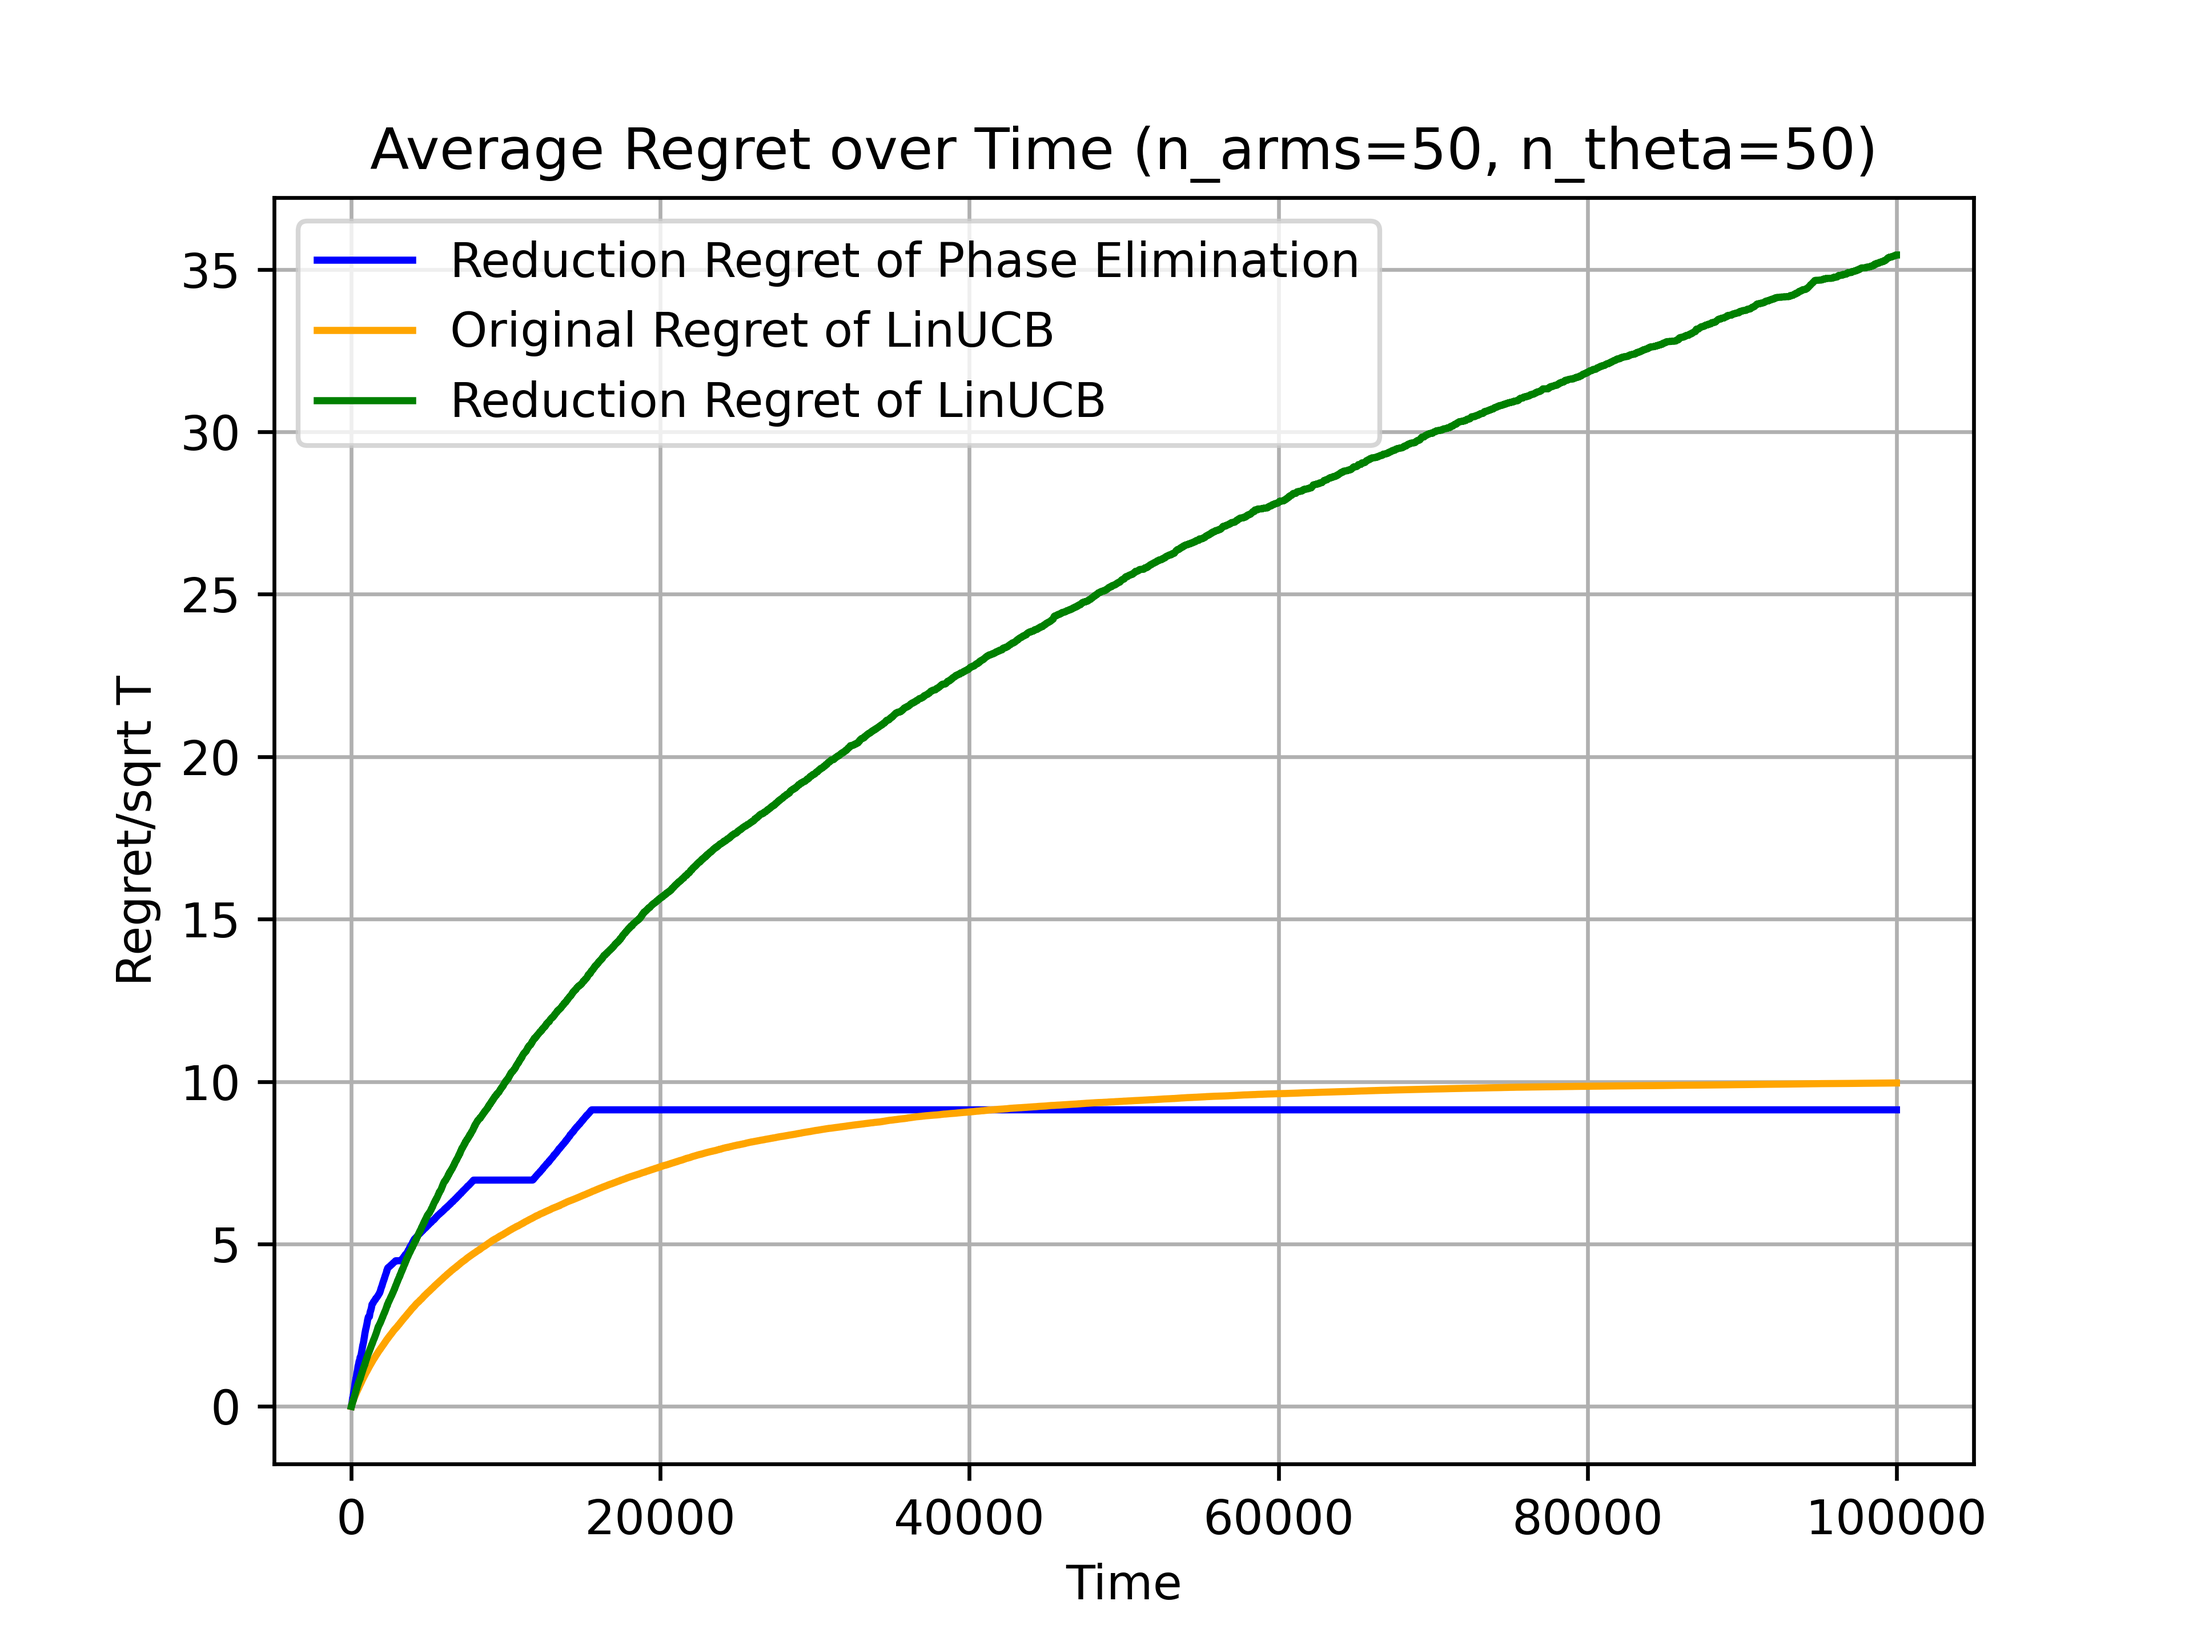
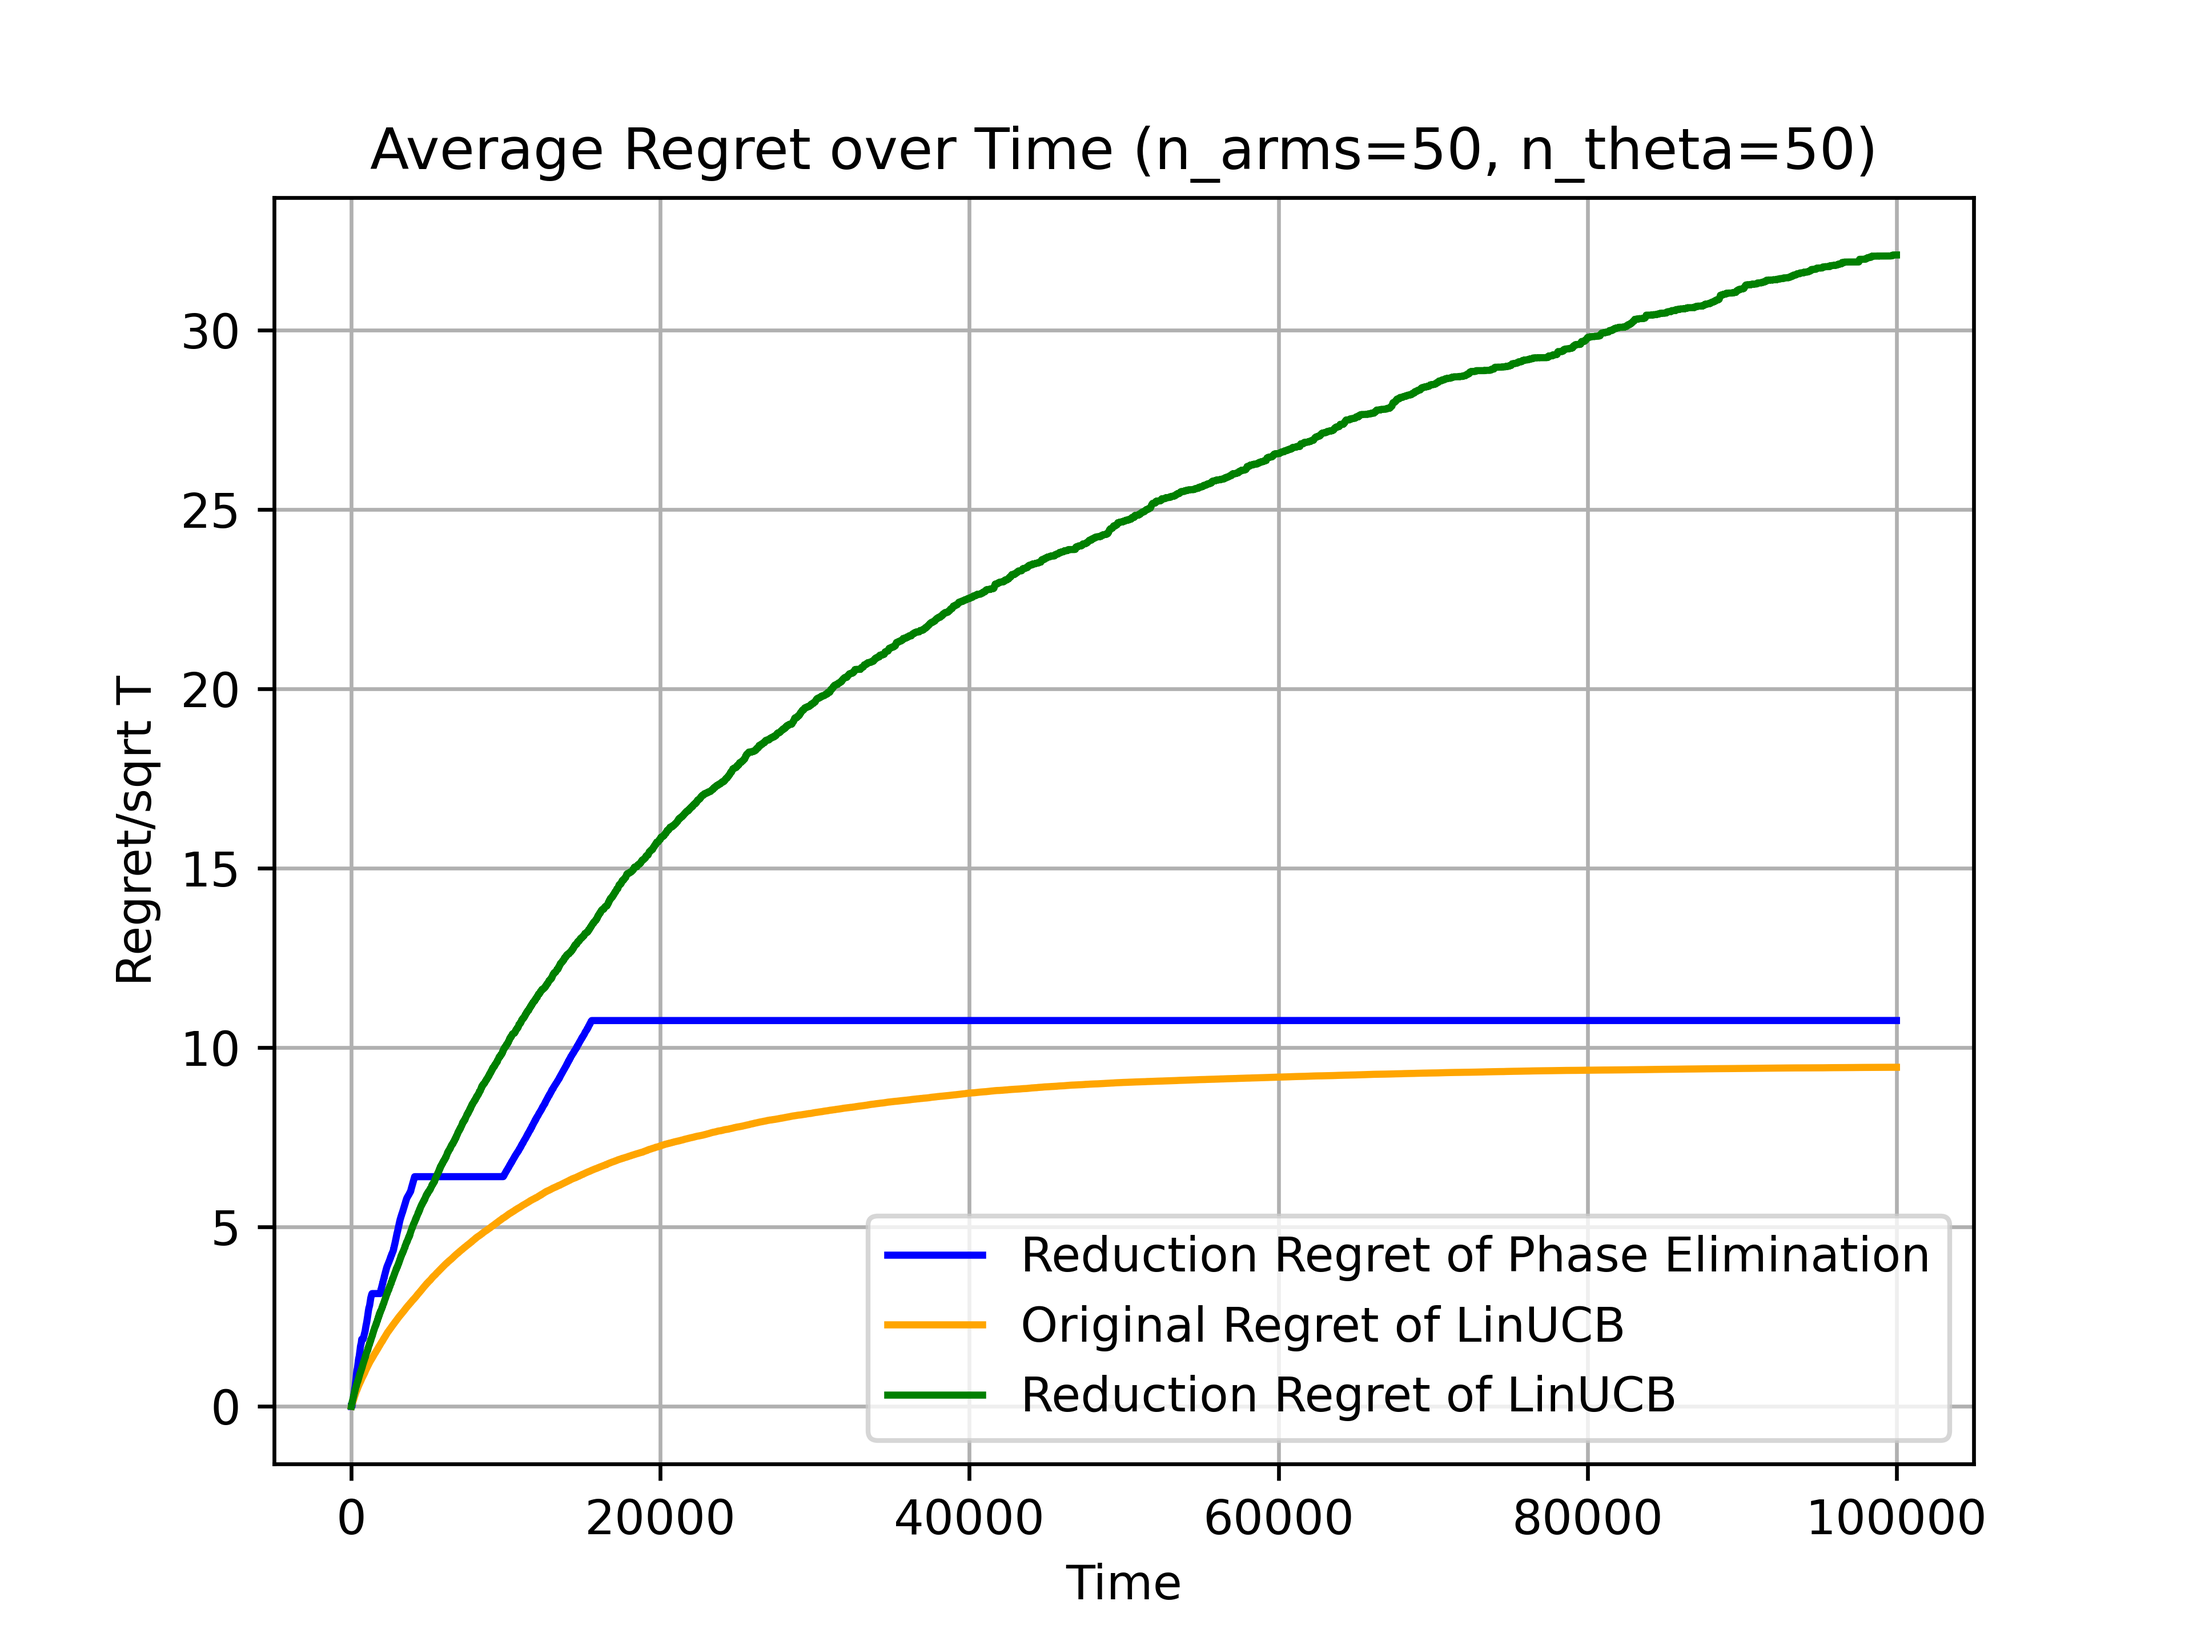
restructure repo

diff --git a/sector_comparsion.py b/sector_comparsion.py
@@ -1,12 +1,12 @@
 import numpy as np
 import math
 import matplotlib.pyplot as plt
-
+from equal_sphere import generate_action_sets, find_partition
 # initialization of settings:
-n_arms = 50
-n_theta = 50
-n_features = 5
-num_action_list = 200
+n_arms = 100
+n_theta = 100
+n_features = 4
+num_sector = 20
 
 
 class linBand():
@@ -61,11 +61,13 @@ class linBand():
         self.b += self.x_t * r_t
         self.theta_hat = np.linalg.lstsq(self.v, self.b, rcond=None)[0]
 
+
 def update_v_pi(pi, A):
     v_pi = 0.001*np.eye(n_features)
     for i in range(len(A)):
         v_pi += np.outer(A[i], A[i]) * pi[i] 
     return v_pi
+
 # input: A: action set
 # output: return Pi
 def g_optimal_design(A):
@@ -88,6 +90,7 @@ def g_optimal_design(A):
         #update v_pi:
         v_pi = update_v_pi(pi, A) 
     return pi
+
 
 class phase_elimination():
     def __init__(self, action_set, T, l= 1, epsilon_l=2**(-1)) -> None:
@@ -133,20 +136,16 @@ class phase_elimination():
     def feed_reward(self, r_t):
         if np.all(self.T_l == 0):
             # calculate theta_hat: 
-            # print(self.V_l)
-            # print(len(self.V_l))
             V_l_inverse = np.linalg.inv(self.V_l)
             self.theta_hat =  np.dot(V_l_inverse, self.product_At_r_t.reshape(-1, 1)).reshape(1, -1)
             # Eliminate arms: 
             res = []
-            # print(self.A)
             for a in self.A:
                 if any(np.array_equal(row, a) for row in res): continue 
 
                 if max([np.dot(self.theta_hat, b-a)for b in self.A]) <= 2 * self.epsilon_l:
                     res.append(a)
             self.A = np.array(res)
-            # print(self.A)
             # reset T_l, V_l, product-At*rt, cur_action_idx
             pi= g_optimal_design(self.A)
             self.T_l = np.array([math.ceil(2 * n_features * pi[i] / (self.epsilon_l*self.epsilon_l) * math.log(n_theta * self.l*(self.l+1) * T)) for i in range (len(self.A))])
@@ -161,7 +160,7 @@ class phase_elimination():
             self.product_At_r_t += self.A[self.cur_action_idx] * r_t 
 
 
-def g_theta(theta):
+def g_theta(theta, num_action_list):
     '''
     g_theta(theta): Reduction Algorithm 
         @param: theta 
@@ -196,15 +195,13 @@ def g_theta_inverse(x_t, X_):
 reg1 = 0
 reg2 = 0
 reg3 = 0
-T = 10000
+T = 1000000
 
 iterations = 1
 
 list_reg1 = []
 list_reg2 = []
 list_reg3 = []
-
-num_sectors = 20 
 
 
 for i in range(iterations):
@@ -214,14 +211,16 @@ for i in range(iterations):
     # INITALIZATION: 
     reg = 0
     theta_capital = np.random.normal(0, 1, (n_theta, n_features))
-    action_sets = np.random.normal(0, 1,(num_action_list, n_arms, n_features))
 
-    # Normalize the action_sets array in place
-    for i in range(num_action_list):
-        for arm in range(n_arms):
-            norm = np.linalg.norm(action_sets[i][arm])
-            action_sets[i][arm] /= norm
+    # add action_sets 
+    step_size, num_action_list = find_partition(num_sector, n_features)
+    print('Actual sizze of num_action_list: ', num_action_list)
 
+    action_sets = generate_action_sets(step_size, num_action_list,n_features, n_arms)
+    for action in action_sets:
+        print(action)
+    print('Done for action_sets')
+    # print(action_sets)
     # Normalize theta_captial
     for i in range(n_theta):
         norm = np.linalg.norm(theta_capital[i])
@@ -230,9 +229,9 @@ for i in range(iterations):
     theta_star = theta_capital[np.random.randint(n_theta)]
 
     # fixed action set
-    X = np.array([g_theta(a) for a in theta_capital])
+    X = np.array([g_theta(a, num_action_list) for a in theta_capital])
     # look-up table between each theta and the generated action
-    X_ = np.array([[v, g_theta(v)] for v in theta_capital])
+    X_ = np.array([[v, g_theta(v, num_action_list)] for v in theta_capital])
 
     # TEST 1: Phase Elimination Case:
     Bandit = phase_elimination(X, T)
@@ -378,7 +377,7 @@ plt.grid(True)  # This line adds a grid to the plot
 
 # Save the plot to a file (change the filename and format as needed)
 plt.savefig(
-    f'result/Comparsion3{T}_f-{n_features}_arms-{n_arms}_nal-{num_action_list}-I{iterations}_theta{n_theta}.png', dpi=600)
+    f'result/Comparison_Arm_pulled_from_sector{T}_f-{n_features}_arms-{n_arms}_nal-{num_action_list}-I{iterations}_theta{n_theta}.png', dpi=600)
 
 # Display the plot
 plt.show()

diff --git a/equal_sphere.py b/equal_sphere.py
@@ -1,0 +1,94 @@
+import numpy as np
+import math
+from angle import cartesian_to_spherical, spherical_to_cartesian
+import collections
+
+
+def find_partition(num_sector, n_features):
+    for i in range(1, num_sector):
+        number_of_partition = i ** (n_features - 1)
+        if 0.75 * num_sector <= number_of_partition < num_sector * 1.5:
+            return i, number_of_partition
+    return None
+
+
+def generate_action_sets(step_size, num_partitions, n_features, n_arm):
+    def index_phi(phi_value):
+        for i in range(len(phi_general)-1):
+            if phi_general[i] <= phi_value < phi_general[i+1]:
+                return i
+        # return len(phi_general) - 2
+
+    def index_theta(theta_value):
+        for i in range(len(phi_2PI)-1):
+            if phi_2PI[i] <= theta_value < phi_2PI[i+1]:
+                return i
+    
+
+    # return len(phi_2PI) - 2
+    
+    action_sets = [[] for _ in range(num_partitions)]
+
+    # print('num_partition', num_partitions)
+    # print('step_size', step_size)
+    phi_general = np.linspace(0, np.pi , num = (step_size + 1))
+    phi_2PI = np.linspace(0, 2 * np.pi, num = (step_size + 1))
+    print(phi_general)
+    print(phi_2PI)
+
+
+    count_table = [0] * (n_features - 1)
+
+    for i in range(num_partitions):
+        # repeatedly generating actions: 
+        while len(action_sets[i]) < n_arm: 
+            action = np.random.normal(0,1, (n_features))
+            action = action / np.linalg.norm(action)
+            _, angles = cartesian_to_spherical(action)
+            list_phi, theta_value = angles[:-1], angles[-1]
+            # count current partition
+            count  = 0
+            for j in range(0, len(list_phi)):
+                phi = list_phi[j]
+                if index_phi(phi) != count_table[j]:
+                    break 
+                count += 1
+            if index_theta(theta_value) == count_table[-1]:
+                count += 1 
+            # current action is valid in range
+            if count == n_features - 1:
+                action_sets[i].append(action)
+
+        # update each row 
+        # assign a order of priority: larger idx has a larger priority 
+        add_idx = None
+        for k in range(0, len(count_table)):
+            # start from the beginning, find the first place we can add 1 --> if we success, then we are done for this iteration
+            if count_table[k] + 1 < step_size:
+                count_table[k] += 1
+                break
+            # if we cannot, then add_idx = k + 1 -- > (buz count_table[:k+1] will be cleaned up as count_table[k] has been filled)
+            else:
+                add_idx = k+1
+        
+        # if need to clean up, then we will reset every vector before add_idx to be zero
+        if add_idx:
+            for j in range(0, add_idx):
+                count_table[j] = 0
+        
+    return action_sets
+
+# check 
+# n_features = 4
+# n_arm = 2
+# num_sector = 100
+# step, num_partitions = find_partition(num_sector, n_features)
+# action_sets = generate_action_sets(step, num_partitions, n_features, n_arm)
+# print(len(action_sets))
+# for action in action_sets:
+#     res = []
+#     for a in action:
+#         res.append(cartesian_to_spherical(a)[1])
+#     print('action', res)
+#     print()
+# assert all(len(action_set) == n_arm for action_set in action_sets)

diff --git a/comparsion.py b/comparsion.py
@@ -199,7 +199,7 @@ def g_theta_inverse(x_t, X_):
 reg1 = 0
 reg2 = 0
 reg3 = 0
-T = 100000
+T = 1000000
 
 iterations = 1
 
